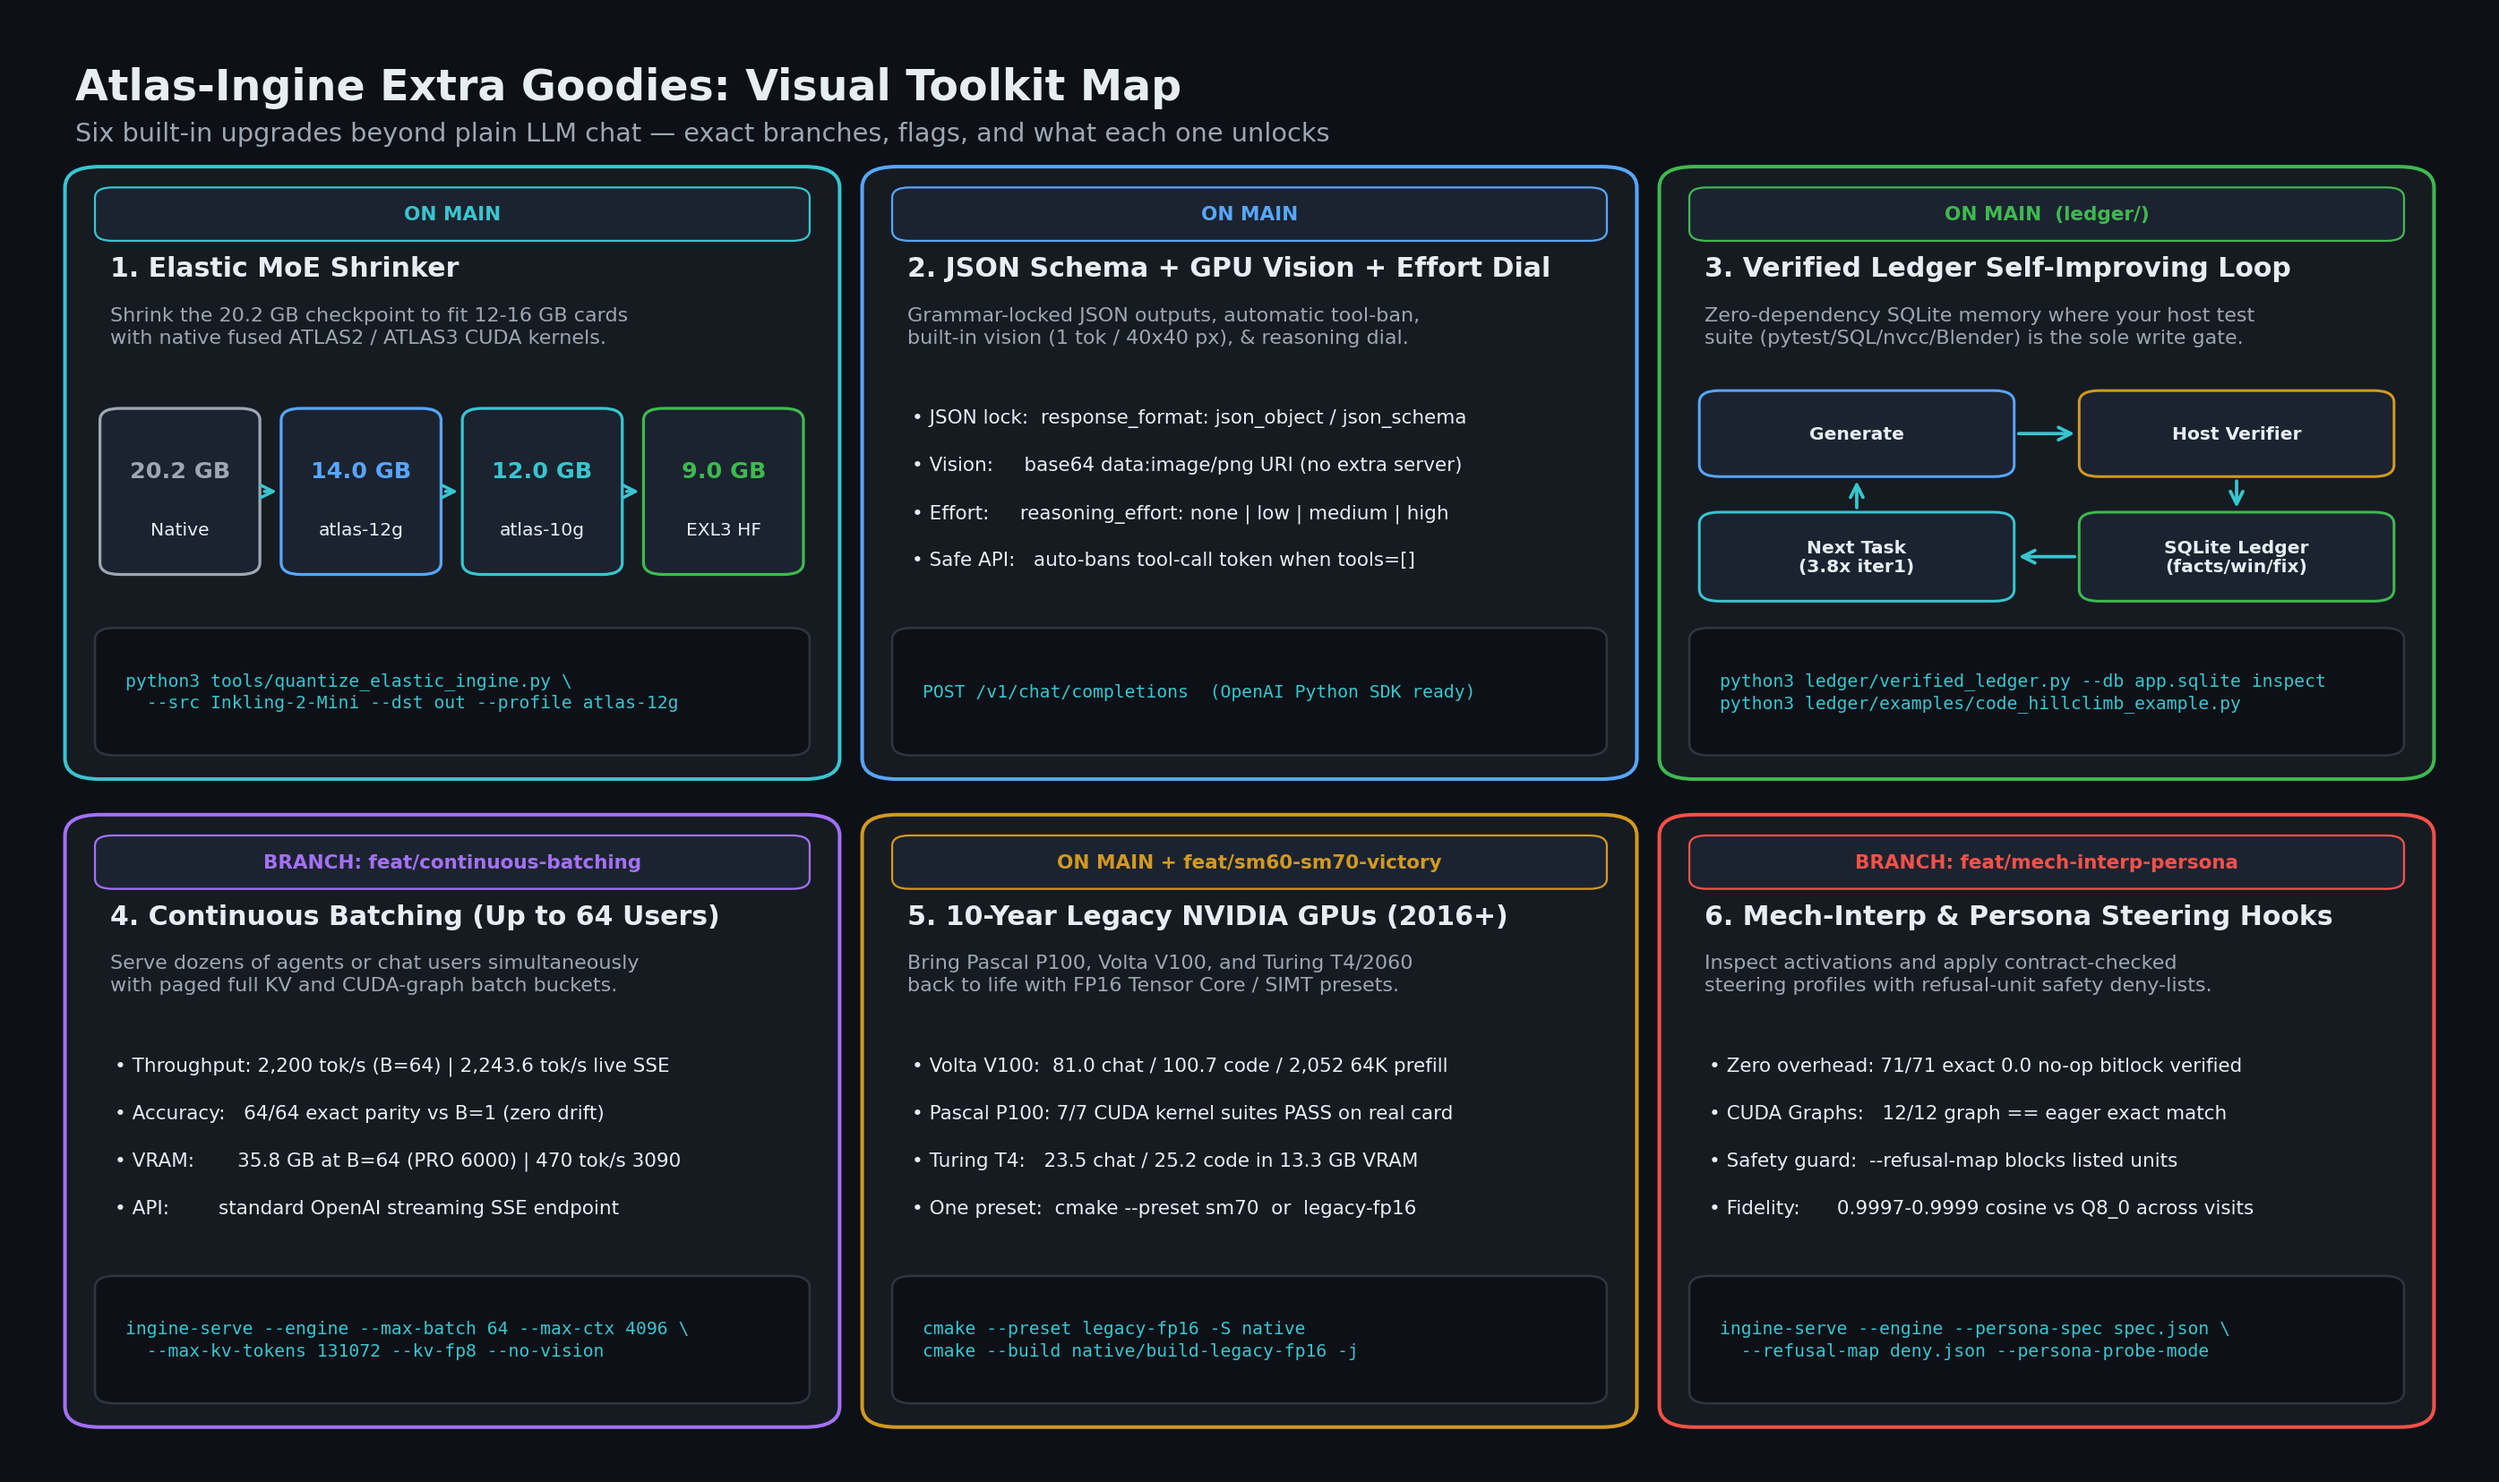
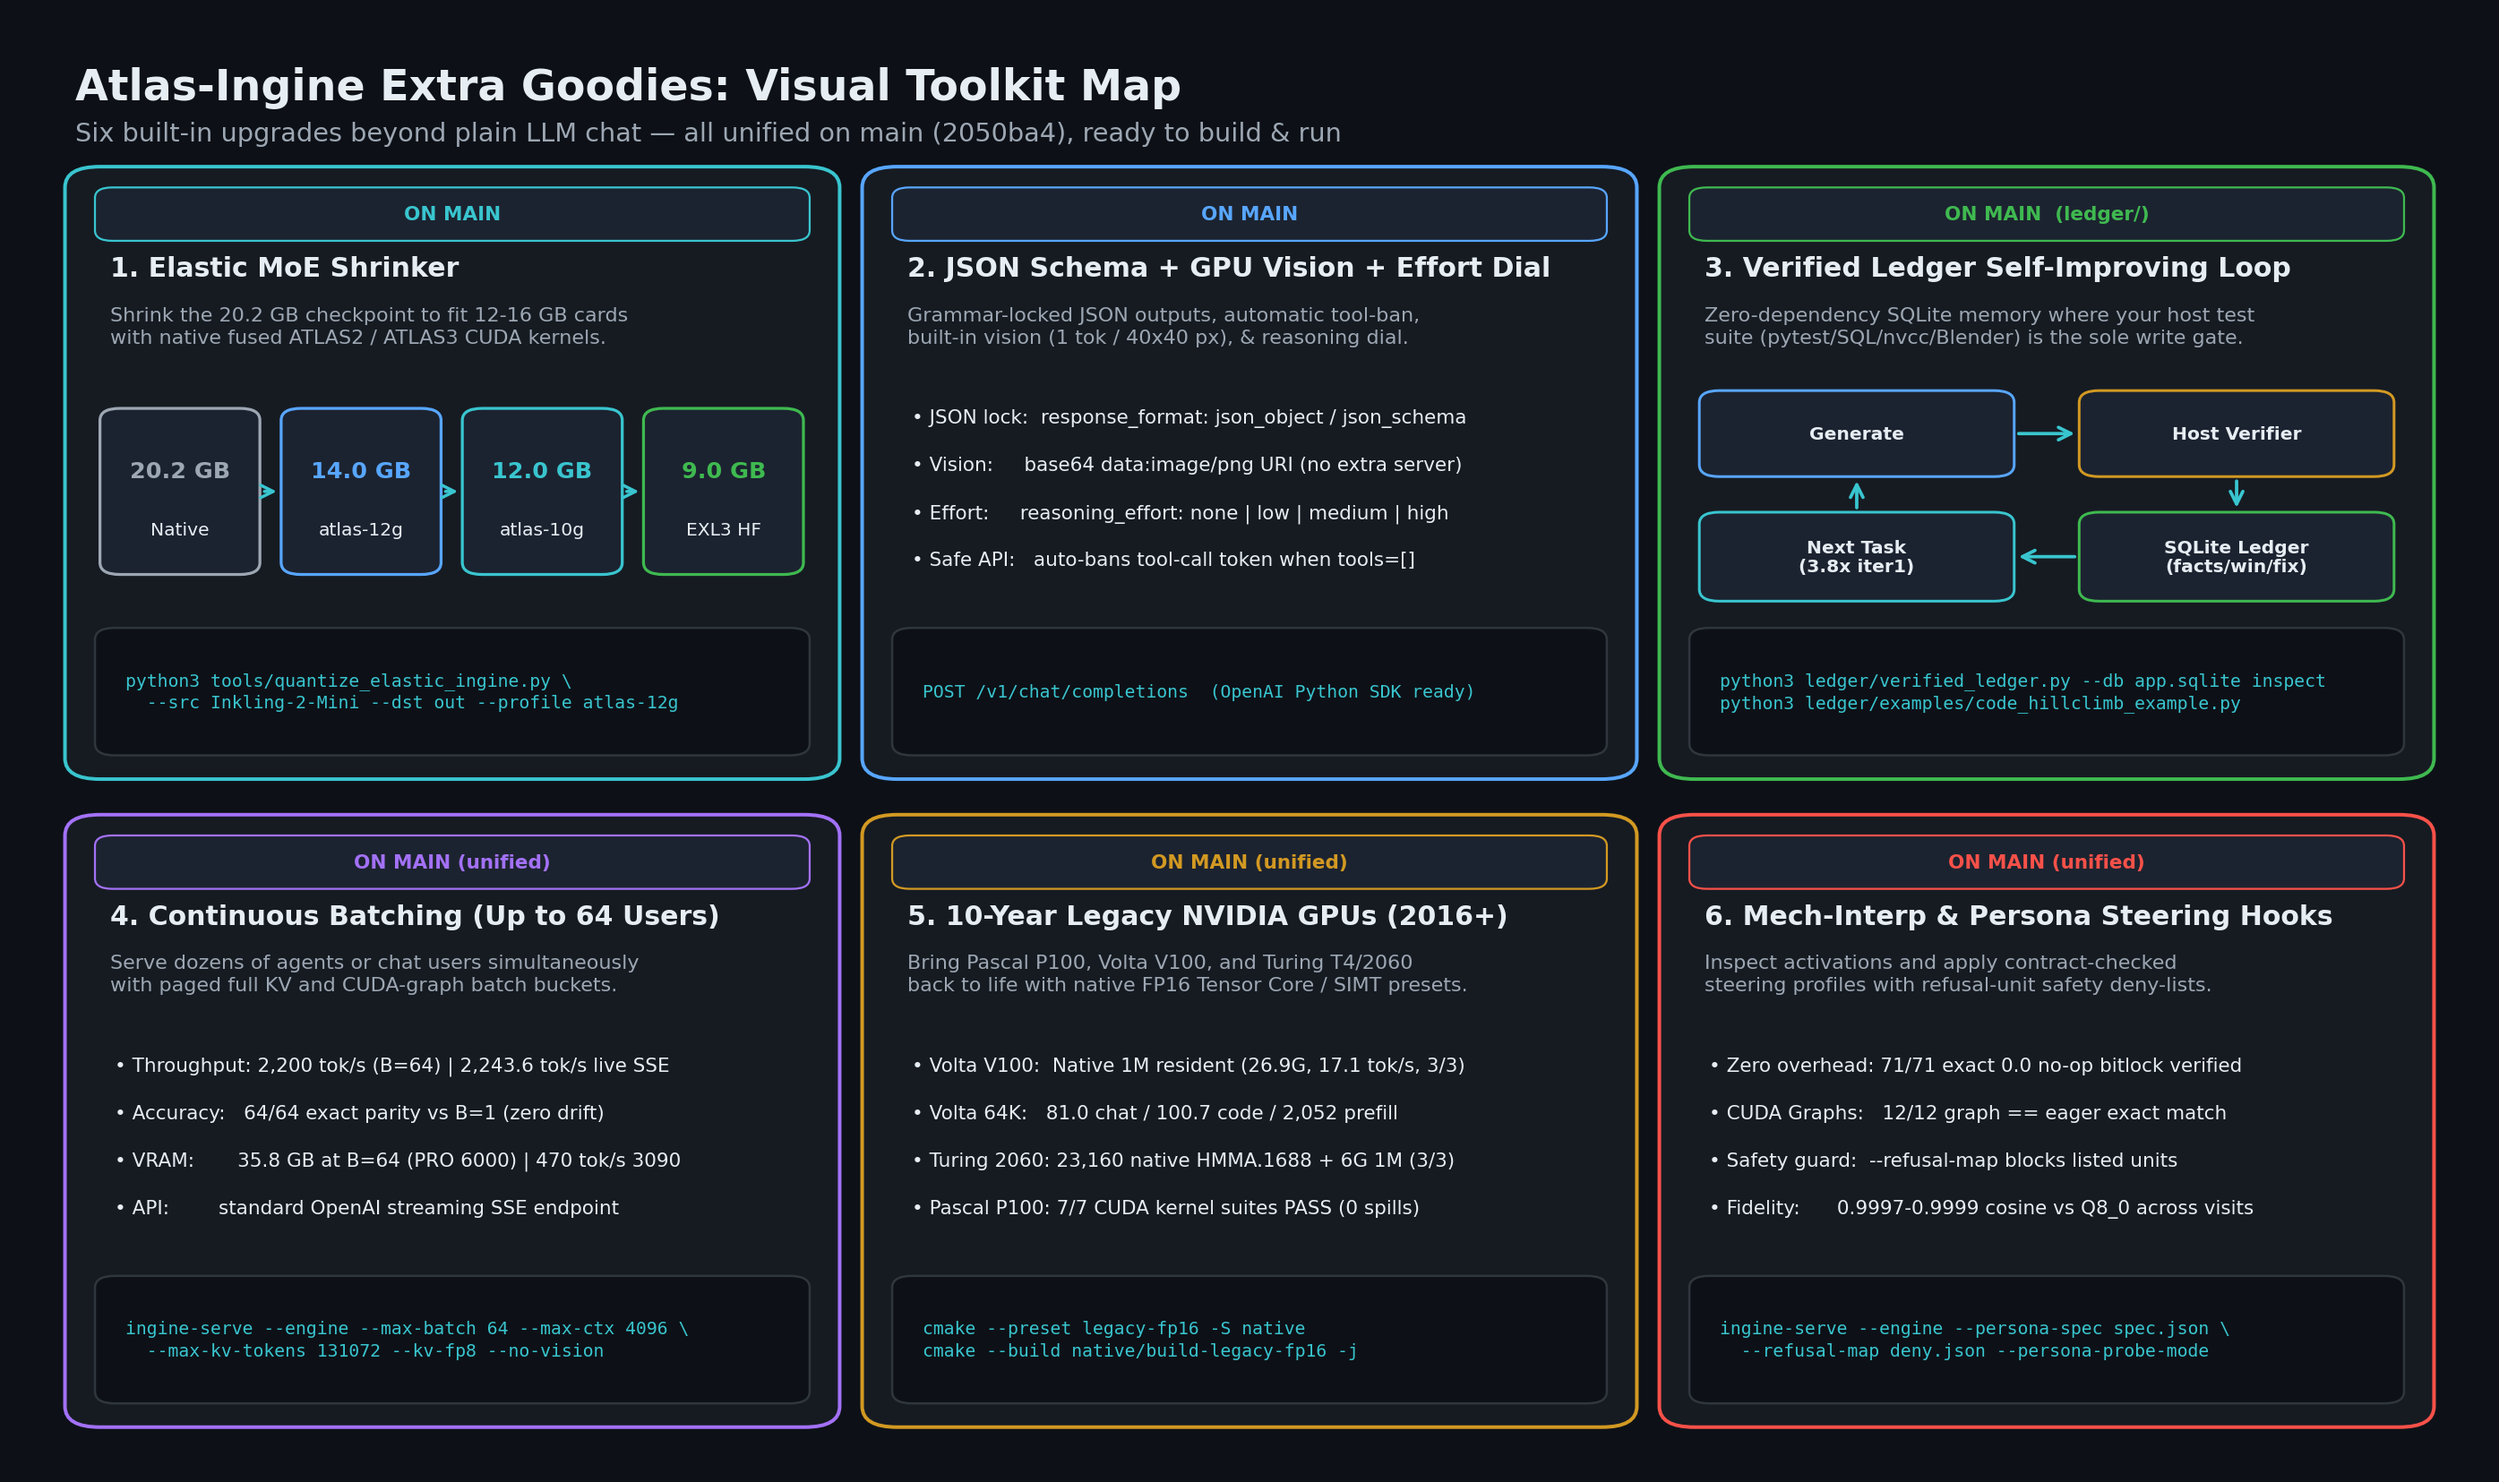
docs(readme): add 2017 Tesla V100 32GB native 1M resident proof (3/3 needles, 17.13 tok/s) and update visual guides for unified main

diff --git a/README.md b/README.md
@@ -63,10 +63,11 @@ Using Q4_0 full-attention KV caching (`--kv-q4`), 3-tier paged KV (`VRAM -> pinn
 | **RTX 3090 (`<=12 GB` paged, `sm_86`)** | `feat/kvq4-elastic-9g @ f9c8da5` | **`10.79 GiB`** | **`566.6 tok/s`** | `0.52 tok/s` | **`6/6` (100%)** | `262K` (`1,614.4` / `2.93 tok/s`) + `1M`; PCIe Gen4 x4; `SWAP=0` |
 | **RTX 4090 (`<=12 GB` paged, `sm_89`)** | `feat/kvq4-elastic-9g @ a3513b6` | **`10.63 GiB`** | **`1,338.1 tok/s`** | `1.25 tok/s` | **`9/9` (100%)** | `262K` (`3,174`) + `524K` (`2,092`) + `1M` (`1,338.1 tok/s`) |
 | **RTX 3090 24 GB (Resident Q4 KV)** | `feat/kvq4-elastic-9g` | **`17.70 GiB`** (`18.62 GiB` w/ prefiller) | **`673.2 tok/s`** | **`29.23 tok/s`** | **`9/9` (100%)** | `4.67 GiB` free VRAM; `9.00 GiB` Q4_0 KV; `262K` + `512K` + `1M` |
-| **RTX 4090 24 GB (Resident Q4 KV)** | `feat/kvq4-elastic-9g` | **`17.94 GiB`** (`18.86 GiB` w/ prefiller) | **`1,206.5 tok/s`** | **`52.92 tok/s`** | **`3/3` (100%)** | Full 1M resident on single 24 GB consumer card |
+| **RTX 4090 24 GB (Resident Q4 KV)** | `main` (`2050ba4`) | **`17.94 GiB`** (`18.86 GiB` w/ prefiller) | **`1,206.5 tok/s`** | **`52.92 tok/s`** | **`3/3` (100%)** | Full 1M resident on single 24 GB consumer card |
+| **Tesla V100-PCIE 32 GB (2017 Volta `sm_70`, Native Resident)** | `main` (`2050ba4` / `8b92ef5`) | **`27,846 MiB`** (`26.885 GiB` w/ prefiller, `4.543 GiB` free) | **`119.4 tok/s`** (`2.33 h`) | **`17.13 tok/s`** | **`3/3` (100%)** | **Full native `NVFP4+MXFP8` + 9 GiB Q4_0 KV 100% resident in HBM2** (`INGINE_ACT_FP16=ON`, `615.6 MB` host RAM, `SWAP=0`, `47°C` max) |
 | **RTX PRO 6000 96 GB (Live Server)** | `main` (`--max-ctx 1048576 --kv-fp8`) | **`39.8 / 97.9 GiB`** (`57.5 GiB` free) | Live continuous | **`629–719 tok/s`** | Live vision climb | Native `NVFP4+MXFP8`, vision + `--spec` enabled (see video below) |
 
-- **1M Atomic Disk KV Checkpoint & Resume (`feat/kv-checkpoint-resume @ efefeb3`):** Streaming `O(1)` (~4.5 MiB buffer) atomic (`tmp -> fsync -> rename`) disk checkpoint/resume verified bit-identical (**`0.000000` KL, `0.000000` max logit diff, `17/17` top-1**) across resident Q4, 3-tier paged Q4, and cross-mode (`save resident -> load paged`), with loud SHA-256 prompt-prefix mismatch rejection and real multi-process `SIGTERM` stop -> `0.93s` resume (`--kv-ckpt-path`, `--kv-ckpt-every`, `--kv-ckpt-resume`).
+- **1M Atomic Disk KV Checkpoint & Resume (`main @ 2050ba4`):** Streaming `O(1)` (~4.5 MiB buffer) atomic (`tmp -> fsync -> rename`) disk checkpoint/resume verified bit-identical (**`0.000000` KL, `0.000000` max logit diff, `17/17` top-1**) across resident Q4, 3-tier paged Q4, and cross-mode (`save resident -> load paged`), with loud SHA-256 prompt-prefix mismatch rejection and real multi-process `SIGTERM` stop -> `0.93s` resume (`--kv-ckpt-path`, `--kv-ckpt-every`, `--kv-ckpt-resume`).
 
 ## KernelBench Level-2 Benchmarks (100 Tasks, Continual Learning & Verified Ledger)
 
@@ -234,13 +235,13 @@ Additional verified architecture, branch, and live-serving details:
 - **RTX 3090 (`sm_86`, 24 GB):** `atlas-10g` at 16K ctx with `--no-vision --dense-fp8 --kv-fp8 --spec --park-mb 0` uses **`12,984 MiB`** (`<12 GiB` without `--spec`).
 - **RTX 4090 (`sm_89`, 24 GB):** `atlas-12g` at 128K ctx with `--no-vision` uses **`17,776 MiB`**; live long-output serving with vision enabled at 64K ctx runs at **~257 tok/s**.
 - **Upstream RTX 5090 (`sm_120a`, 32 GB):** native `NVFP4+MXFP8` serves up to **262,144 tokens** of context in `24.4 GiB` (`490–560 tok/s` decode, `6,200–10,900 tok/s` prefill; see [Upstream RTX 5090 results](#upstream-rtx-5090-and-abliteration-results)).
-- **Verified feature branches live on GitHub (built on `901d86e`):**
-  - `feat/kvq4-elastic-9g` (`8b92ef5`): EXL3 sub-3-bit MoE (`Atlas3D/Inkling-2-Mini-atlas-exl3-9g-fp8-ingine`) + `--kv-q4` + 3-tier paged KV + bulk-DMA prefetching (`1,048,576` tokens proven on physical 6 GB `RTX A2000`, `RTX 3090`, and `RTX 4090`; `48/48` `kernels_bitlock` PASS).
+- **All 5 feature tracks are unified directly on `main` (`2050ba4`)** (and preserved as individual history branches on GitHub):
+  - `feat/kvq4-elastic-9g` (`8b92ef5`): EXL3 sub-3-bit MoE (`Atlas3D/Inkling-2-Mini-atlas-exl3-9g-fp8-ingine`) + `--kv-q4` + 3-tier paged KV + bulk-DMA prefetching (`1,048,576` tokens proven on physical 6 GB `RTX 2060` & `RTX A2000`, 2017 `Tesla V100 32 GB`, `RTX 3090`, and `RTX 4090`; `48/48` `kernels_bitlock` PASS).
   - `feat/kv-checkpoint-resume` (`efefeb3`): `O(1)` streaming atomic disk KV checkpoint/resume (`0.000000` KL bit-identical resume across resident, 3-tier paged, and cross-mode, `0.93s` multi-process resume).
-  - `feat/sm60-sm70-victory` (`fe18669`): Volta V100 `81.0` chat / `100.7` code / `2,052` 64K prefill + real 2016 Pascal P100 `7/7` kernel suites PASS (0 register spills).
+  - `feat/sm60-sm70-victory` (`fe18669`): Volta V100 `81.0` chat / `100.7` code / `2,052` 64K prefill + **native 1M resident (`119.4` prefill / `17.13 tok/s` decode, `3/3` needles)** + real 2016 Pascal P100 `7/7` kernel suites PASS (0 register spills).
   - `feat/continuous-batching` (`fa4ecb9`): Continuous batching `B=1..64` with paged full KV and CUDA-graph buckets — **`2,200.1 tok/s` at `B=64`** (`34.4 tok/s/req`, `7.45×` plain `B=1`, `35.77 GB` VRAM), **`2,243.6 tok/s` live 64-client OpenAI HTTP SSE (`64/64 OK`)**, and `64/64` exact parity vs `B=1` on Blackwell PRO 6000.
   - `feat/mech-interp-persona` (`dd0f776`): Full 5-gate mechanistic interpretability hook & HTTP control-plane suite on Blackwell SM120a (`71/71` exact-0.0 no-ops, `12/12` CUDA graph == eager bitlock, `0.999745–0.999957` cosine vs Q8_0 across 6 visits).
-  - `feat/atlas-6g-homology` (`7c7639c`): Decoupled 3-tier paging core and homology-guided `--atlas-6g` MoE offloading (`5.90 GB` VRAM, `87.4%` hit rate, `34.7` chat / `31.5` code tok/s on RTX 3090, `100%` token-exact vs UVA).
+  - `feat/pascal-turing-lowvram-neon` (`6b2e496`) & `feat/atlas-6g-homology` (`7c7639c`): `23,160` native Turing `sm_75` `HMMA.1688` ops (`0` `sm_61` FP16x2 ALU), `+81.6%` 6G 16K prefill (`433.9` vs `238.9 tok/s` at `5.92 GB`), `--atlas-6g --spec` M=2..8 at `5.87 GB`, and homology-guided `--atlas-6g` MoE offloading (`5.90 GB` VRAM, `87.4%` hit rate, `100%` token-exact vs UVA).
 
 ## What this fork adds over upstream `satellitedown/ingine`
 
